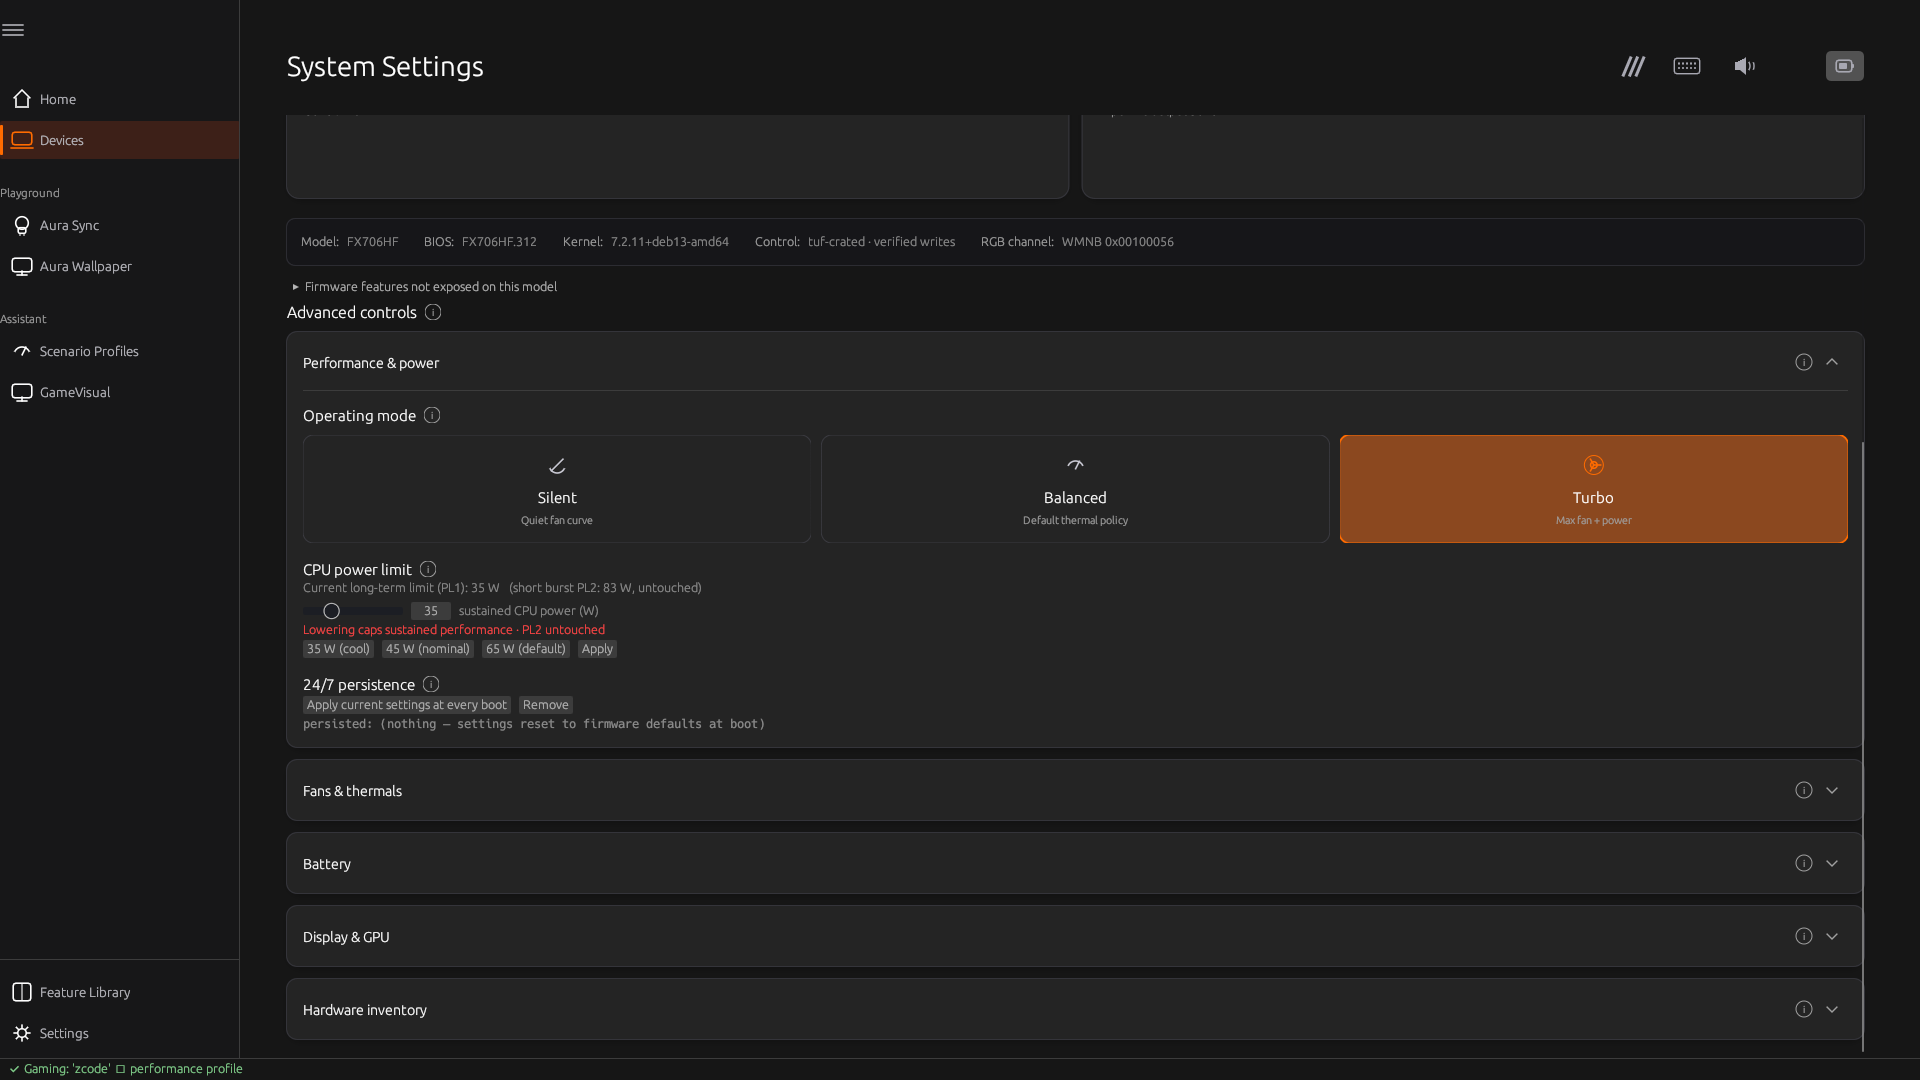
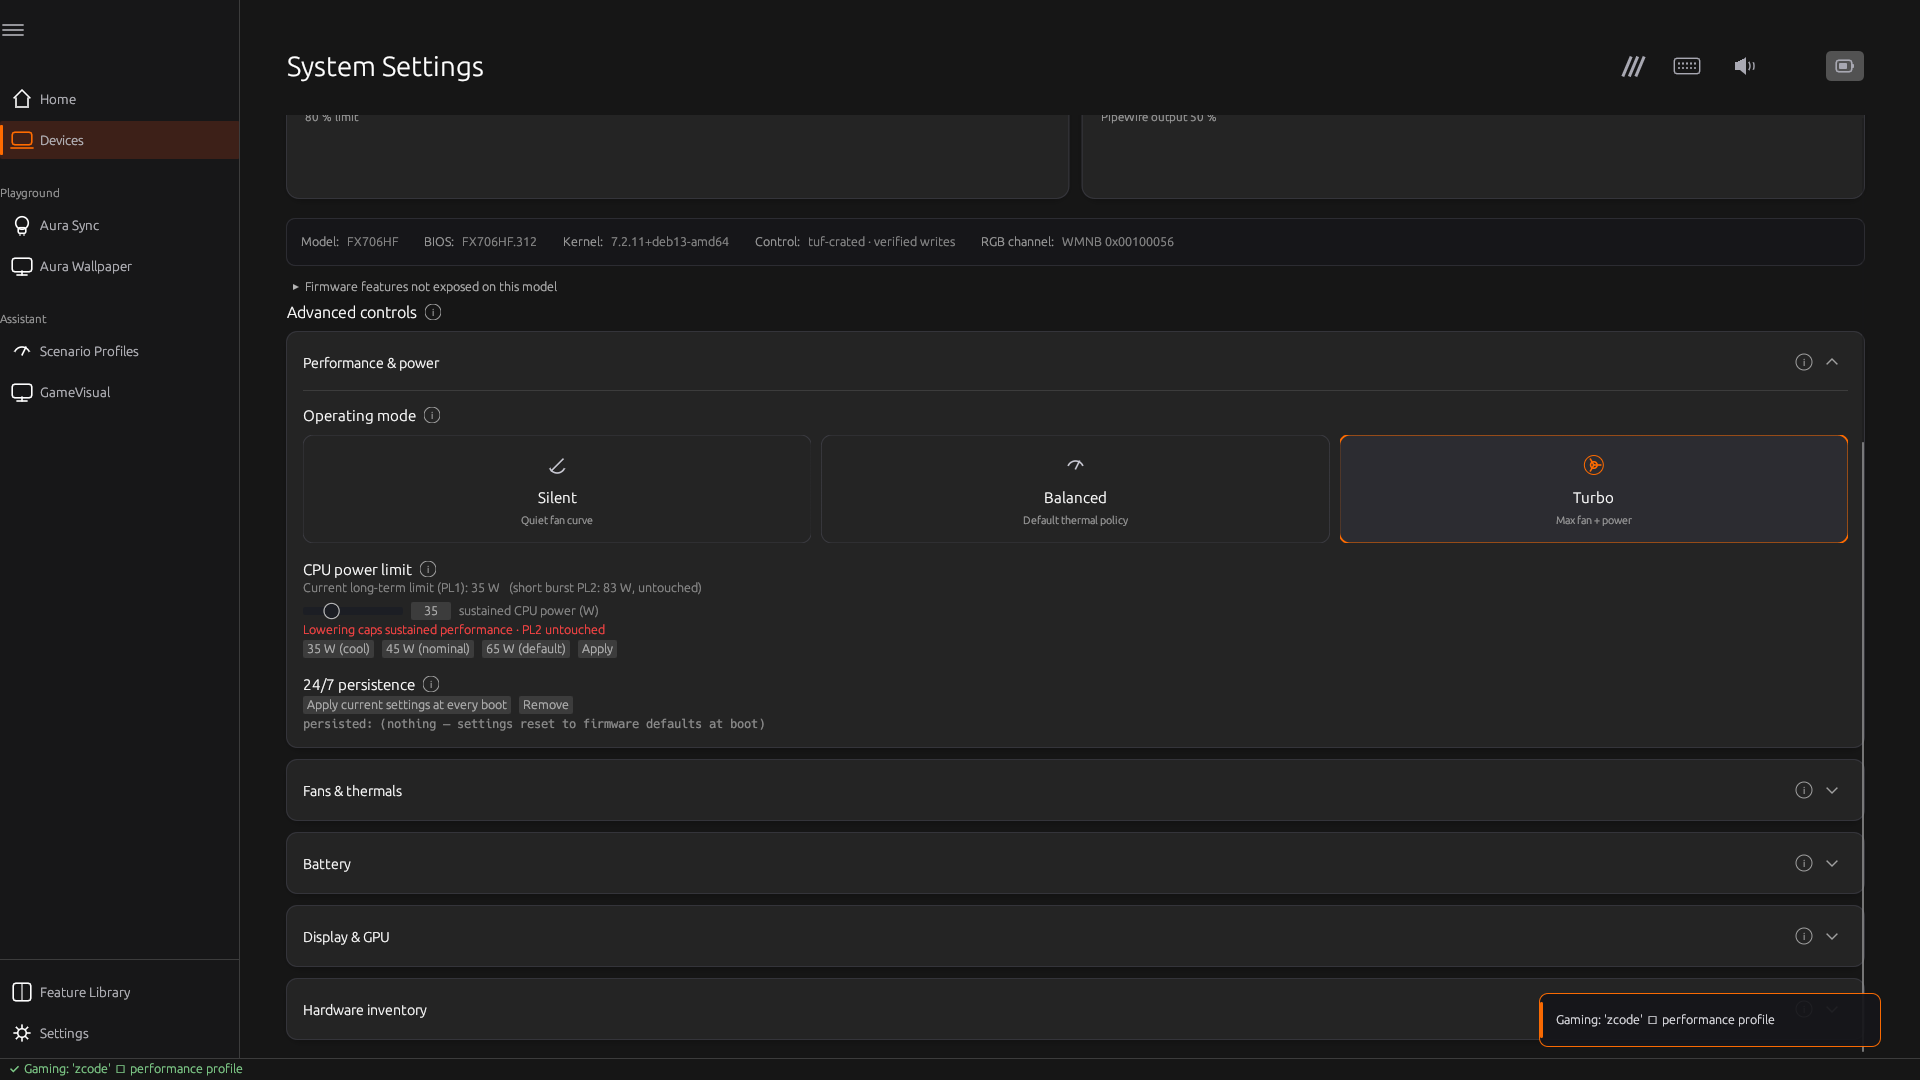
ui: neutral selected surfaces instead of brown accent wash
- selected effect tiles, mode cards and segmented controls use a lifted
  neutral surface plus a solid orange border/icon/text
- removes all muddy orange-on-brown selected padding

Changed region(s): [[0.6875, 0.3972, 0.9688, 0.5194], [0.8125, 0.9167, 0.9375, 0.9472]]

diff --git a/crates/tuf-gui/src/main.rs b/crates/tuf-gui/src/main.rs
@@ -940,6 +940,16 @@ fn card_surface() -> egui::Color32 {
     }
 }
 
+/// Neutral lifted fill for a selected tile. The accent is carried by the
+/// border/icon/text, never by a brown wash over the dark surface.
+fn selected_surface() -> egui::Color32 {
+    if light_theme() {
+        egui::Color32::from_rgb(255, 244, 235)
+    } else {
+        egui::Color32::from_rgb(44, 44, 49)
+    }
+}
+
 /// Small (i) affordance. Hover shows the text; clicking pins a popup until
 /// the icon is clicked again or Close is pressed.
 fn info_icon(ui: &mut egui::Ui, text: &str) -> egui::Response {
@@ -3437,7 +3447,7 @@ impl TufApp {
                                                 let selected = profile == p.as_str();
                                                 let (r, resp) = ui.allocate_exact_size(egui::vec2(ui.available_width(), 28.0), egui::Sense::click());
                                                 let pnt = ui.painter_at(r);
-                                                pnt.rect_filled(r, 5.0, if selected { egui::Color32::from_rgba_unmultiplied(accent.r(), accent.g(), accent.b(), 35) } else { egui::Color32::from_rgb(28, 28, 31) });
+                                                pnt.rect_filled(r, 5.0, if selected { selected_surface() } else { egui::Color32::from_rgb(28, 28, 31) });
                                                 pnt.rect_stroke(r.shrink(0.5), 5.0, egui::Stroke::new(if selected { 1.3 } else { 1.0 }, if selected { accent } else { egui::Color32::from_rgb(58, 58, 64) }));
                                                 pnt.text(egui::pos2(r.left() + 12.0, r.center().y), egui::Align2::LEFT_CENTER, label, egui::FontId::proportional(12.0), if selected { accent } else { text_main() });
                                                 if resp.clicked() {
@@ -4121,16 +4131,7 @@ impl TufApp {
                     false
                 };
                 egui::Frame::none()
-                    .fill(if selected {
-                        egui::Color32::from_rgba_unmultiplied(
-                            accent.r(),
-                            accent.g(),
-                            accent.b(),
-                            24,
-                        )
-                    } else {
-                        card_bg()
-                    })
+                    .fill(if selected { selected_surface() } else { card_bg() })
                     .rounding(8.0)
                     .stroke(egui::Stroke::new(
                         if selected { 1.5 } else { 1.0 },
@@ -6898,16 +6899,7 @@ impl TufApp {
                         p.rect_filled(
                             rect,
                             7.0,
-                            if selected {
-                                egui::Color32::from_rgba_unmultiplied(
-                                    accent().r(),
-                                    accent().g(),
-                                    accent().b(),
-                                    52,
-                                )
-                            } else {
-                                card_bg2()
-                            },
+                            if selected { selected_surface() } else { card_bg2() },
                         );
                         p.rect_stroke(
                             rect,
@@ -7120,11 +7112,7 @@ impl TufApp {
                 pnt.rect_filled(
                     rect,
                     10.0,
-                    if selected {
-                        egui::Color32::from_rgba_unmultiplied(accent().r(), accent().g(), accent().b(), 38)
-                    } else {
-                        card_surface()
-                    },
+                    if selected { selected_surface() } else { card_surface() },
                 );
                 pnt.rect_stroke(
                     rect.shrink(0.5),
@@ -7700,16 +7688,7 @@ impl TufApp {
                     p.rect_filled(
                         rect,
                         8.0,
-                        if selected {
-                            egui::Color32::from_rgba_unmultiplied(
-                                orange.r(),
-                                orange.g(),
-                                orange.b(),
-                                28,
-                            )
-                        } else {
-                            card_bg()
-                        },
+                        if selected { selected_surface() } else { card_bg() },
                     );
                     p.rect_stroke(
                         rect.shrink(0.5),
